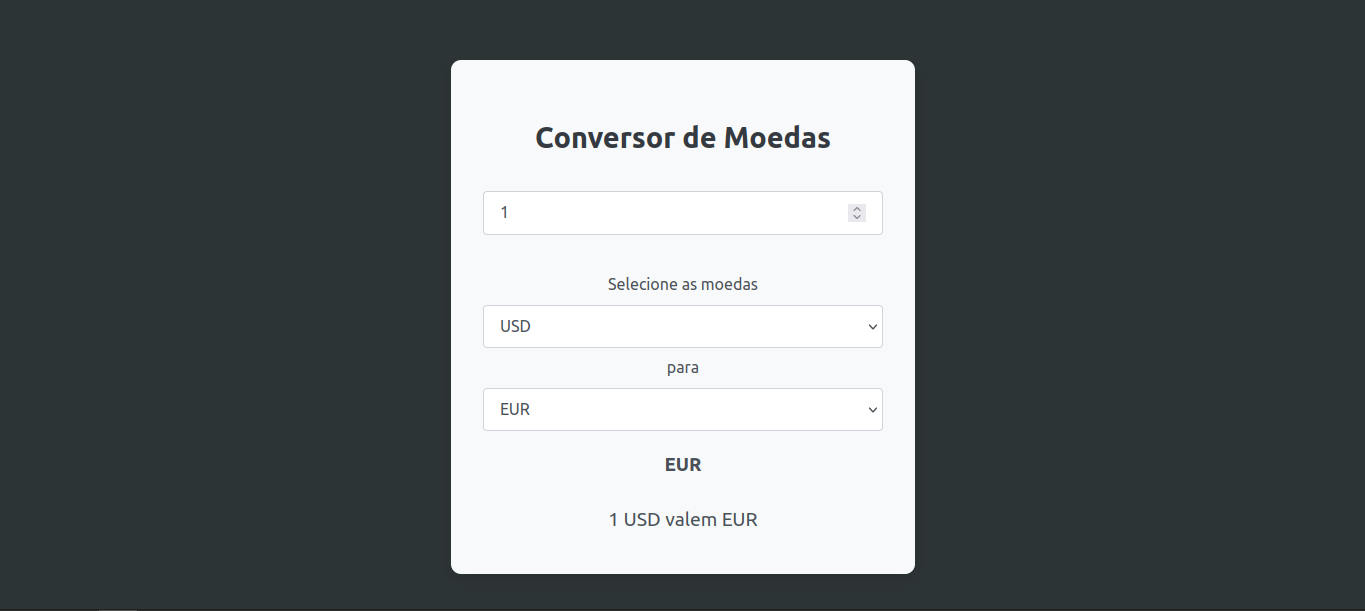
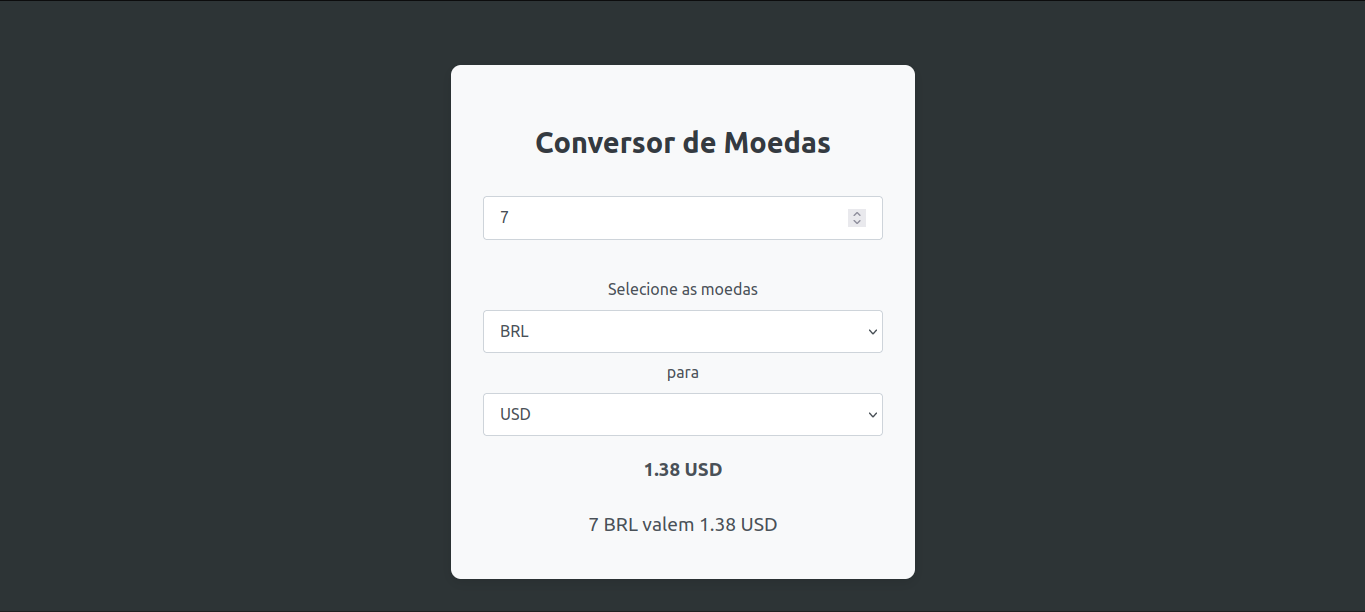
implemente função para realizar a conversão

diff --git a/src/components/CurrencyConverter.jsx b/src/components/CurrencyConverter.jsx
@@ -24,15 +24,34 @@ const CurrencyConverter = () => {
       });
   }, []);
 
+  useEffect(() => {
+    if (rates) {
+      const rateFrom = rates[fromCurrency] || 0;
+      const rateTo = rates[toCurrency] || 0;
+      setConvertedAmount(((amount / rateFrom) * rateTo).toFixed(2));
+    }
+  }, [amount, rates, fromCurrency, toCurrency]);
+
+  if (!rates) {
+    return <h1>Carregando...</h1>;
+  }
+
   return (
     <div className="converter">
-
       <h2>Conversor de Moedas</h2>
-      <input type="number" placeholder="Digite o valor..." value={amount} />
-      
+      <input
+        type="number"
+        placeholder="Digite o valor..."
+        value={amount}
+        onChange={(e) => setAmount(e.target.value)}
+      />
+
       <span>Selecione as moedas</span>
-      
-      <select value={fromCurrency}>
+
+      <select
+        value={fromCurrency}
+        onChange={(e) => setFromCurrency(e.target.value)}
+      >
         {Object.keys(rates).map((currency) => (
           <option value={currency} key={currency}>
             {currency}
@@ -41,8 +60,11 @@ const CurrencyConverter = () => {
       </select>
 
       <span>para</span>
-      
-      <select value={toCurrency}>
+
+      <select
+        value={toCurrency}
+        onChange={(e) => setToCurrency(e.target.value)}
+      >
         {Object.keys(rates).map((currency) => (
           <option value={currency} key={currency}>
             {currency}
